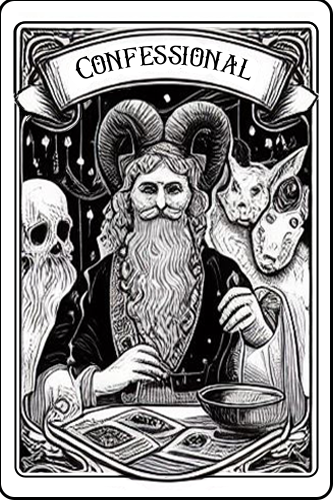
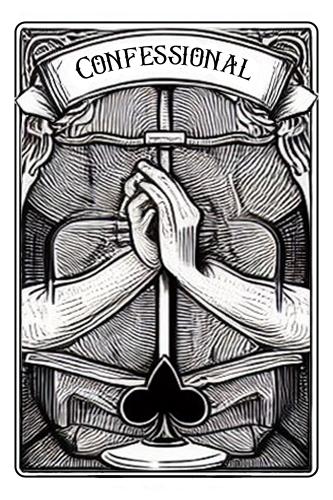
Updated ReadMe, Images
Updated images again after feedback

diff --git a/App.js b/App.js
@@ -57,19 +57,15 @@ const bgImgDeck =  'https://placehold.co/333x500?text=?';
 //----------------------------------------------- 
 //Game Variables
 //----------------------------------------------- 
+let debugOFF = false;
 
-let cardBank = cardMaster;
-
-
-
-const debugOFF = false;
-
+const cardBank = cardMaster;
 let chosenCards = [];
-
 let card1 = {};
 let card2 = {};
 let card3 = {};
 
+let deckOFF = false;
 
 //----------------------------------------------- 
 //Logic Functions
@@ -94,26 +90,26 @@ domCard1.addEventListener("click", function(){
   chooseCard(1);
 }); 
 
-
-
 domDeck.addEventListener("touchstart", function(){
-  (!debugOFF) ? console.log('deck click read') : null;
+  (!debugOFF) ? console.log('deck touch read') : null;
   initializeCards();
   drawCard();
 
   hideDeck();
 }); 
-
-
 
 domDeck.addEventListener("click", function(){
   (!debugOFF) ? console.log('deck click read') : null;
-  initializeCards();
-  drawCard();
-
-  hideDeck();
+  if (deckOFF === false){
+    console.log('deck activated')
+    initializeCards();
+    drawCard();
+    hideDeck(); 
+    deckOFF = true;
+  } else{ 
+    (!debugOFF) ? console.log('already clicked the deck') : null; }
+  
 }); 
-
 
 //sets all cards
 function initializeCards(){
@@ -245,9 +241,6 @@ function initializeCards(){
   endGameCheck();
 }
 
-
-
-
 function cardStateClear(){
   domCard1.classList.remove('card-draw1');
   domCard2.classList.remove('card-draw2');
@@ -314,7 +307,8 @@ function chooseCard(num){
     domCard1.classList.remove('card-draw1');
     removedCard(num);
   }
-showDeck();
+  setTimeout(showDeck, 3000);
+
 }
 
 function hideDeck(){
@@ -328,6 +322,7 @@ function showDeck(){
   domDeck.classList.remove('deck-hide');
   void domDeck.offsetWidth;
   domDeck.classList.add('deck-show');
+  deckOFF = false;
 
 }
 

diff --git a/src/index.css b/src/index.css
@@ -6,8 +6,8 @@
   --card-width: 333px;
   --card-height: 500px;
 
-  --card-hero-width: 400px;
-  --card-hero-height: 600px;
+  --card-hero-width: 450px;
+  --card-hero-height: 675px;
 
   --card1-top:25%;
   --card1-left:calc(25% - (var(--card-width)/2));
@@ -20,7 +20,11 @@
 
   --card-border: 1px solid black;
   --card-border-radius: 5%;
- 
+
+  --card-rotate: rotate(10deg);
+  --card-rotate-CW: rotate(-10deg);
+
+
   --flip-delay: 1;
   --anim-focus-speed: 1s;
 
@@ -133,6 +137,7 @@ body{
 .back {
   transform: rotateY(180deg);
   box-shadow: 0 4px 8px 0 rgba(0, 0, 0, 0.2), 0 6px 20px 0 rgba(0, 0, 0, 0.19), inset 0 0 20px 5px rgba(51, 51, 51, .5) ;
+  background-color: ghostwhite ;
 }
 
 
@@ -290,7 +295,7 @@ body{
   to{
     top: var(--card1-top);
     left: var(--card1-left);
-    transform: rotate(-10deg);
+    transform: var(--card-rotate-CW);
   }
 }
 
@@ -314,7 +319,7 @@ body{
   100%{
     top: var(--card3-top);
     left: var(--card3-left);
-    transform: rotate(10deg);
+    transform:var(--card-rotate);
   }
 }
 
@@ -455,3 +460,38 @@ body{
     top: calc(100% - (var(--card-height)/2.5));
   }
 }
+
+/* Small devices (portrait tablets and large phones, 600px and up) */
+@media only screen and (max-width: 600px) {
+  :root{
+    --card-font-size: 1.5em;
+
+    --card-width: 200px;
+    --card-height: 300px;
+  
+    --card-hero-width: 250px;
+    --card-hero-height: 375px;
+  
+    --card1-top:10%;
+    --card1-left:calc(40% - (var(--card-width)/2));
+  
+    --card2-top:25%;
+    --card2-left:calc(50% - (var(--card-width)/2));
+  
+    --card3-top:40%;
+    --card3-left:calc(60% - (var(--card-width)/2));
+
+    --card-rotate:rotate(5deg);
+    --card-rotate-CW:rotate(-5deg);
+
+  }
+  .card-id{
+    width: 50%;
+    font-size: 1em;
+    top: 90%;
+    left: 50%;
+  }
+  
+
+}
+

diff --git a/README.md b/README.md
@@ -1,12 +1,35 @@
-# TextAdventure
- personal project 2 - Drinking Game
+# Party Card Game
 
- created by Caleb 'Cables' Universe. december 2023.
+personal project 2 - Party Game
+created by Caleb *Cables* Universe. december 2023.
+
+This project was made with JavaScript, HTML and CSS. 
+
+## How to Play
+
+When the game loads, a deck of cards will sit on the bottom part of the screen. Clicking, or touching it with your finger will draw 3 cards face down.
+Each card has a topic on the back, choose the topic you wish to do.
+The card will flip, displaying the question, or task, and the penalty.
+The deck will appear again on the bottom, the next player takes their turn.
+
+Cards will not play again after they've been chosen.
+
+## Breakdown  
+### Purpose
+
+I wanted to make a game that can played with friends at parties. 
+It needed to be simple to play, so everyone can be included, but also entertaining enough to keep people's attention.
 
 
-this is my attempt at a text adventure game, made with pure JavaScript, and CSS. 
+### Appearance
 
-I wanted to make a simple card game that can be used during partys. The Data.JS file can be editied to add more cards based on your choosing.
+Most of the graphics were made using Bing AI Image generator, and heavily edited in Photoshop.
+All animations are based on CSS keyframes.
+
+### Future Ideas
+Player name input, along with a drink counter
+Express and Socket.io to allow for players to play the game on their TV, and control it with their mobile devices. 
+ChromeCast compatibility. 
 
 
 please enjoy, and don't hesitate to reach out.
